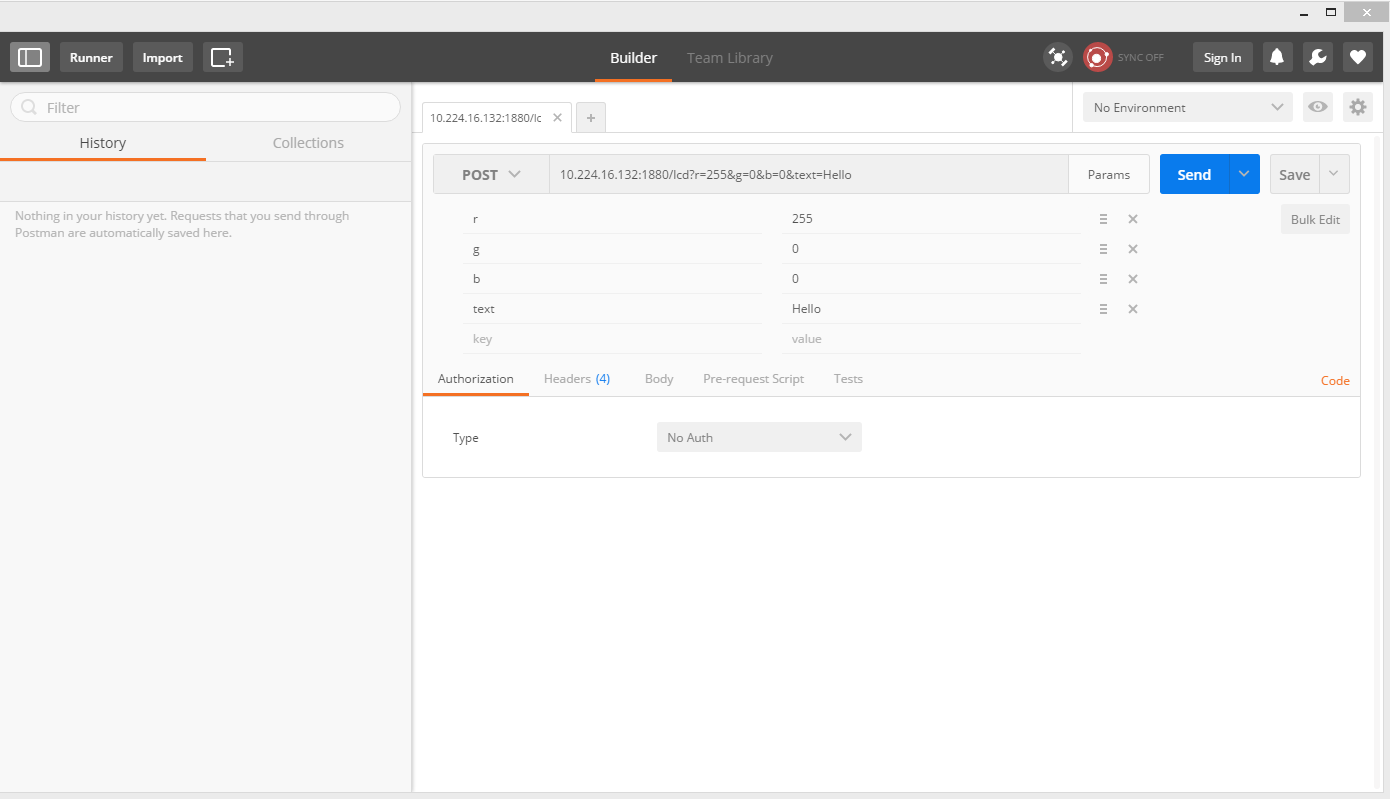
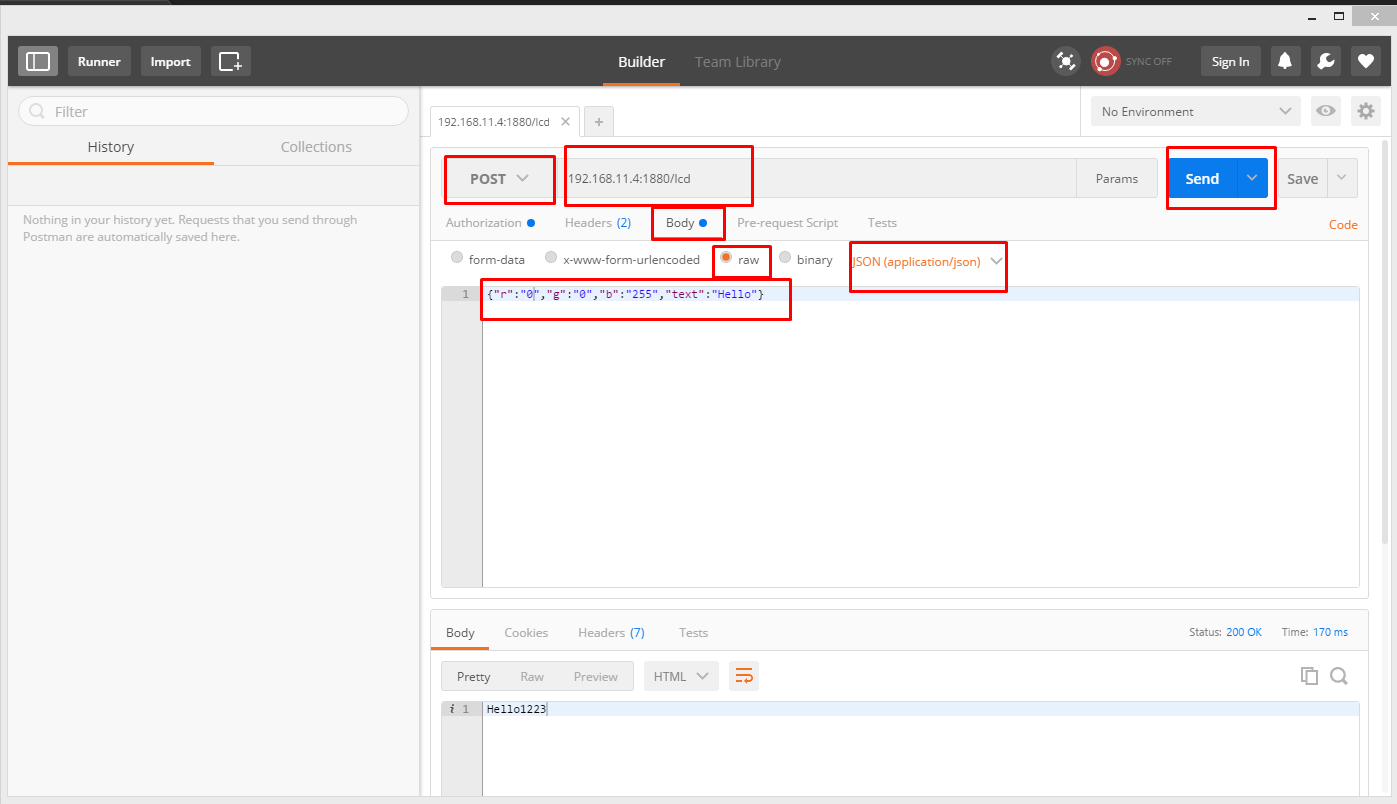
Minor fixes in content and  images

diff --git a/app/views/labs/protocols/index.html b/app/views/labs/protocols/index.html
@@ -702,12 +702,14 @@ return msg;</pre></ui-codemirror>
                     <h5>Use Postman to send web request </h5>
                     <p>Once Postman is installed launch it from the Google Apps Launcher.</p>
                     <ul>
-                        <li>Select post from the dropdown menu and enter the IP address of your Intel IoT device port 1880 with the URL specified above. In this case it is <code>10.224.16.132:1880/lcd</code></li>
+                        <li>Select post from the dropdown menu and enter the IP address of your Intel IoT device port 1880 with the URL specified above. In this case it is <code>192.168.11.4:1880/lcd</code></li>
+                        <li>Go to "Authorization" tab, select "Basic Auth" from drop down menu. Provide root as Username and your gateway password in Password field. </li>
                         <li>The /lcd  require specific JSON objects to control the LCD screen. /lcd requires JSON with:
-                            <b>{"r":r_value,"g":g_value,"b":b_value,"text":LCD_Text}</b> where r_value, g_value, and b_value are the the r,g,b values from 0-255. LCD_Text is the text which should be displayed on LCD.
+                            <b>{"r":"r_value","g":"g_value","b":"b_value","text":"LCD_Text"}</b> where r_value, g_value, and b_value are the the r,g,b values from 0-255. LCD_Text is the text which should be displayed on LCD.
 
                         <li>To have Postman send a request with this syntax slect the "Body" tab, click the "raw" radial button, and select JSON from the dropdown menu. Now enter the JSON specifed above entering the color values and message you wish to display.
                             When you are ready hit "Send". The example to the right shows how to send a r=0,g=255,b=0,text=Hello  JSON to /lcd.</li>
+
                     </ul>
                 </div>
 

diff --git a/app/views/labs/databases/index.html b/app/views/labs/databases/index.html
@@ -61,7 +61,7 @@
           <pre><code>wget https://fastdl.mongodb.org/linux/mongodb-linux-x86_64-3.2.9.tgz</code></pre>
           <p>Unarchive the downloaded file and change directories into the newly created mongodb directory.<p>
           <pre><code>tar zxvf mongodb-linux-x86_64-3.2.9.tgz&#13;&#10;cd mongodb-linux-x86_64-3.2.9</code></pre>
-        
+
         </div>
 
 
@@ -77,6 +77,9 @@
           <p>Run the mongod. The mongod process will continue to run while you are working on the rest of the labs.  You may wish to open a new console and run the mongod process there.</p>
 
           <pre><code>./mongod --dbpath=/data/db</code></pre>
+          <p>Wait till below message is displayed. </p>
+          <p><code>[initandlisten] waiting for connections on port 27017</code></p>
+            <p>Now Mongodb is executed and display all the messages on that terminal. For next step open new SSH terminal.</p>
         </div>
 
 
@@ -360,6 +363,7 @@ mqttClient.on('message', function(topic, message) {
 </div>
   </div>
 
+<!-- Duplicate Instructions
       <div ibox  title="Lab Solutions">
         <div content-block name="Clone-the-Solution-from-its-Github-Repository" message="Clone the Solution from it's Github Repository">
 <h2 class="labHidden">Clone the Solution from it's Github Repository</h2>
@@ -385,7 +389,7 @@ mqttClient.on('message', function(topic, message) {
           <pre><code>node server.js</code></pre>
         </div>
       </div>
-
+-->
       <div ibox title="Additional Resources">
           <ul>
               <li>

diff --git a/app/views/labs/cloud/index.html b/app/views/labs/cloud/index.html
@@ -213,13 +213,13 @@ data_format = "json"</ui-codemirror>
           <div content-block message="Download and copy Telegraph MQTT Configuration file" name="download-copy-telegrap-mqtt-configuration-file">
             <p>If you ave already edited the telegraph-mqtt.conf file then skip this step.</p>
             <p>Here we will direcly download the configuration file of telegraph and mqtt and replace with already exist in gateway.</p>
-            <pre><code>wget https://raw.githubusercontent.com/SSG-DRD-IOT/grafana-telegraph-mqtt-conf/master/telegraf-mqtt.conf </code></pre>
+            <pre><code>wget https://raw.githubusercontent.com/SSG-DRD-IOT/grafana-telegraph-mqtt-conf/master/telegraf-mqtt.conf -O telegraf-mqtt.conf</code></pre>
           </div>
 
 
           <div content-block message="Start the telegraf service" name="telegraf-start">
             <p>Next start the telegraf service pointing to this conf file:</p>
-            <pre><code>telegraf -config telegraf-mqtt.conf</code></pre>
+            <pre><code>./telegraf -config telegraf-mqtt.conf</code></pre>
           </div>
           <div content-block message="Start the telegraf service" name="telegraf-start" image-link="./views/labs/cloud/images/telegraf-start.png">
             <p>We should start getting the readings if they are getting published from the sensors as shown in the figure</p>
